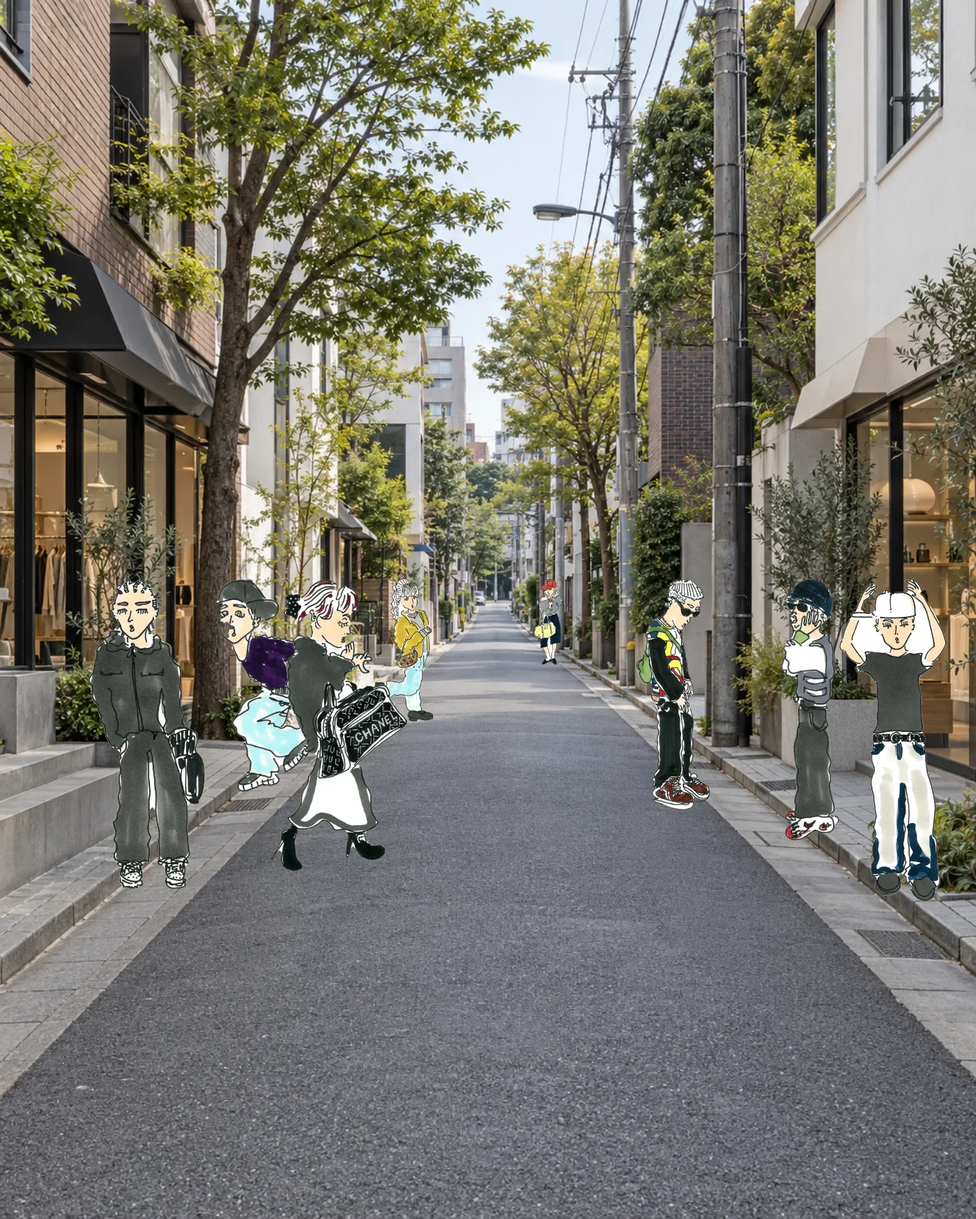
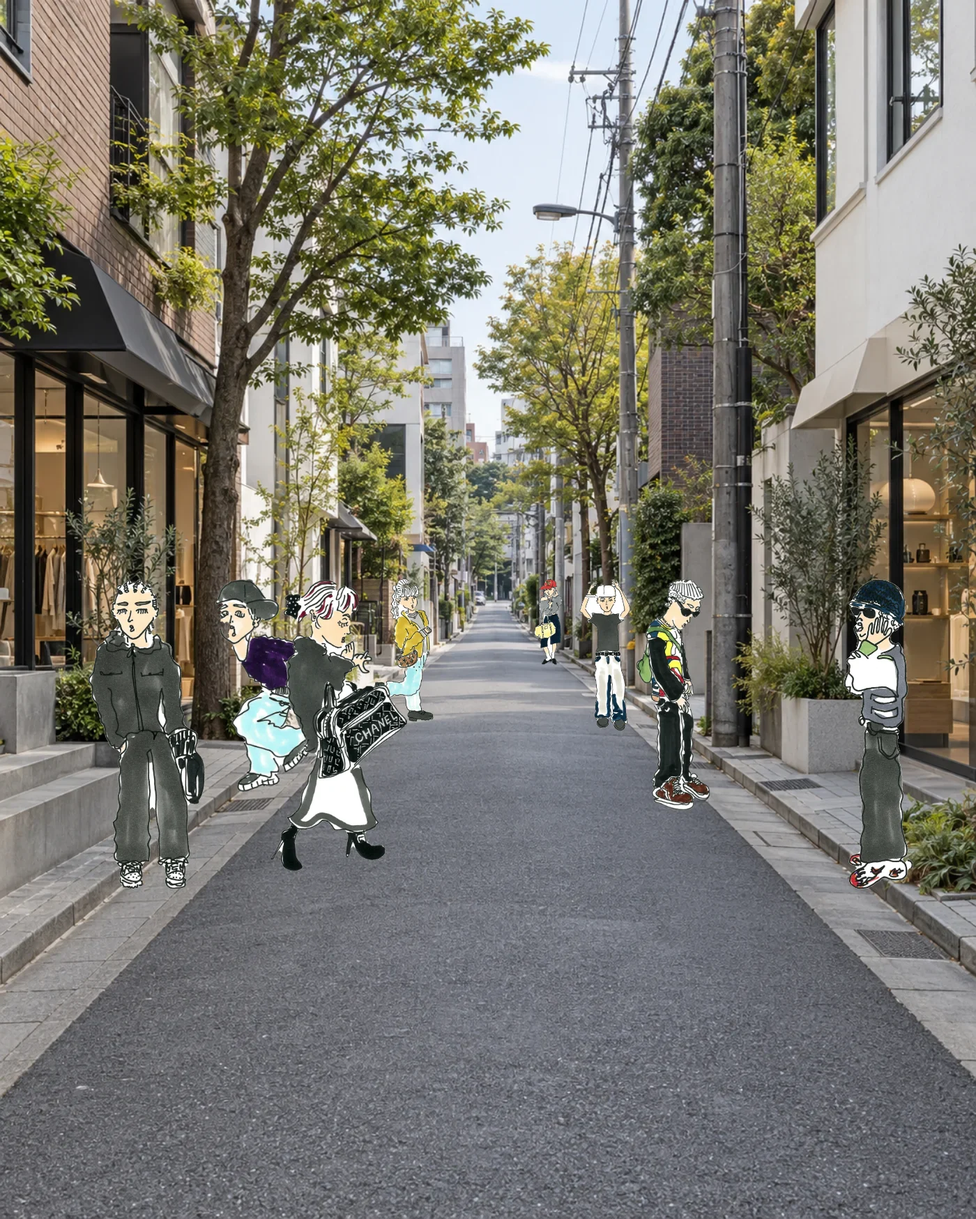
街：スマホも8人に戻し、両手をあげた人を奥へ
スマホ版から外していた 03（キャップで手を伸ばしている人）を戻して
8人にそろえた。かわりに 04（両手をあげた黒Tシャツの人）を
手前から奥へ下げ、空いた右手前には人②を立たせた。
広い画面も同じ入れ替え。

手前の2人（左＝シャネルのバッグの人、右＝人②）はそのまま大きく。

?v=4 に上げて読み直させる。

Changed region(s): [[0.7986, 0.4631, 0.9829, 0.741], [0.5836, 0.4631, 0.645, 0.6175]]

diff --git a/index.html b/index.html
@@ -417,7 +417,7 @@ addEventListener('load',function(){ clearTimeout(t); setTimeout(go,3500); });
   var layers=[].slice.call(g.querySelectorAll('.street i'));
   var small=matchMedia('(max-width:760px)').matches;
   /* ?v は焼き直した街を確実に読ませるための番号。焼き直したら上げる */
-  function src(n){ return 'naoto-assets/street/'+n+(small?'@700w':'')+'.webp?v=3'; }
+  function src(n){ return 'naoto-assets/street/'+n+(small?'@700w':'')+'.webp?v=4'; }
   function load(i){
     var el=layers[i];
     if(!el||el.dataset.loaded) return;
